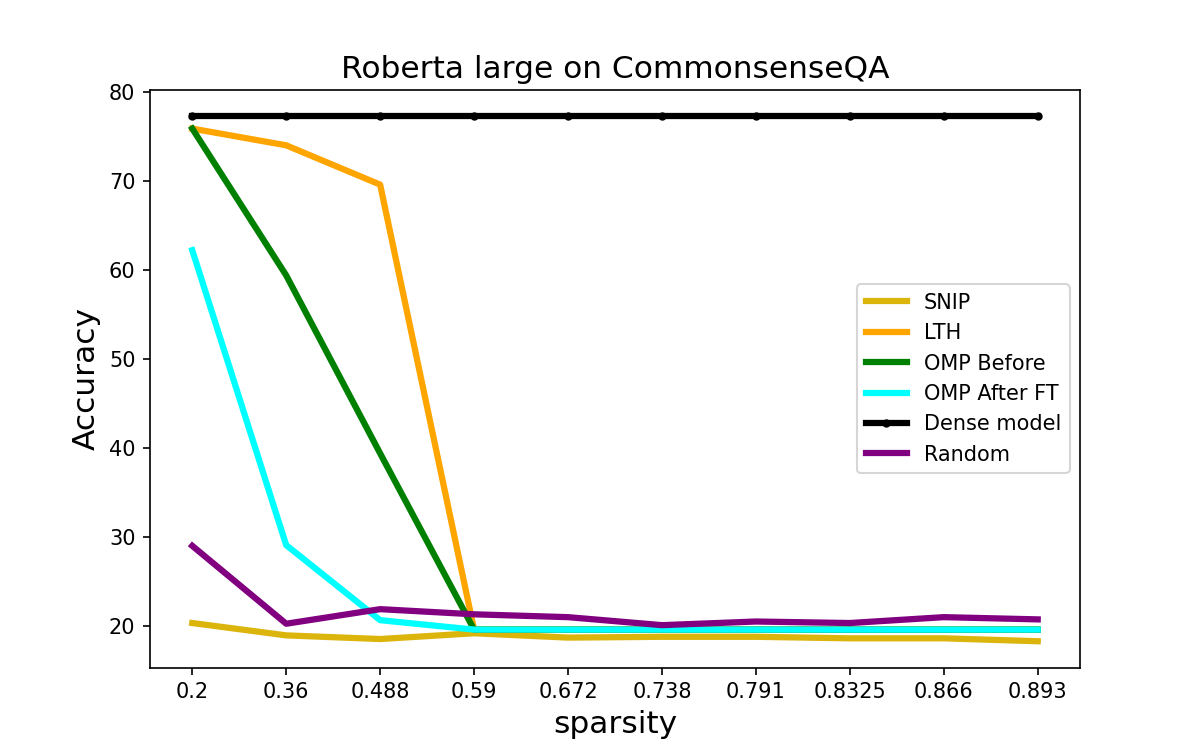
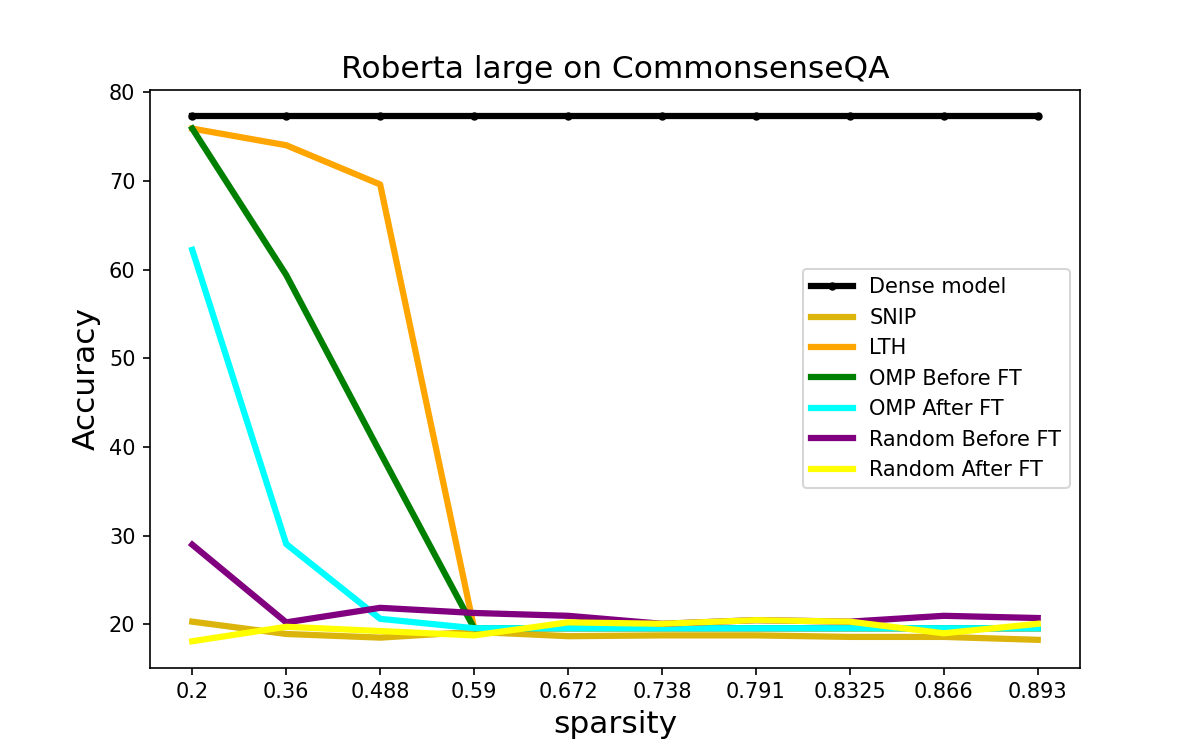
fix bug of pruning after FT

diff --git a/plot/Commonsense_qa.py b/plot/Commonsense_qa.py
@@ -13,19 +13,21 @@ x_lth = [0.2, 0.36, 0.488, 0.590, 0.672, 0.738, 0.791, 0.8325, 0.866, 0.893]
 robert_snip = [20.31, 18.92, 18.51, 19.16, 18.67, 18.76, 18.76, 18.59, 18.59, 18.26]
 robert_gm_before = [75.92, 59.41, 39.39, 19.57, 19.57, 19.57, 19.57, 19.57, 19.57, 19.57]
 robert_gm_after = [62.24, 29.07, 20.63, 19.57, 19.57, 19.57, 19.57, 19.57, 19.57, 19.57]
-robert_random = [28.99, 20.23, 21.87, 21.29, 20.97, 20.07, 20.48, 20.31, 20.97, 20.72]
+robert_random_before = [28.99, 20.23, 21.87, 21.29, 20.97, 20.07, 20.48, 20.31, 20.97, 20.72]
+robert_random_after  =  [18.10, 19.73, 19.25, 18.76, 20.23, 20.07, 20.48, 20.31, 19.00, 20.07]
 # 0.02 0.05 0.1 ... 0.9 0.95
 x_axis = range(10)
 
 
 # prune
 roberta_large = fig.add_subplot(1,1,1)
+roberta_large.plot(x_axis, dense*10,  '-o',   label='Dense model',color='black',linewidth=3, markersize=markersize, )
 roberta_large.plot(x_axis, robert_snip,  '-',   label='SNIP',color='#dbb40c',linewidth=3, markersize=markersize, )
 roberta_large.plot(x_axis, robert_lth,  '-',   label='LTH',color='orange',linewidth=3, markersize=markersize, )
-roberta_large.plot(x_axis, robert_gm_before,  '-',   label='OMP Before',color='green',linewidth=3, markersize=markersize, )
+roberta_large.plot(x_axis, robert_gm_before,  '-',   label='OMP Before FT',color='green',linewidth=3, markersize=markersize, )
 roberta_large.plot(x_axis, robert_gm_after,  '-',   label='OMP After FT',color='cyan',linewidth=3, markersize=markersize, )
-roberta_large.plot(x_axis, dense*10,  '-o',   label='Dense model',color='black',linewidth=3, markersize=markersize, )
-roberta_large.plot(x_axis, robert_random,  '-',   label='Random',color='purple',linewidth=3, markersize=markersize, )
+roberta_large.plot(x_axis, robert_random_before,  '-',   label='Random Before FT',color='purple',linewidth=3, markersize=markersize, )
+roberta_large.plot(x_axis, robert_random_after,  '-',   label='Random After FT',color='yellow',linewidth=3, markersize=markersize, )
 # vgg_all.plot(x_axis, [50]*11,  '-o',   label='random guess',color='gray',linewidth=3, markersize=markersize, )
 roberta_large.set_title('Roberta large on CommonsenseQA',fontsize=fontsize)
 roberta_large.set_xticks(range(10))

diff --git a/fairseq_cli/train_pruning.py b/fairseq_cli/train_pruning.py
@@ -385,7 +385,8 @@ def train(
 
         end_of_epoch = not itr.has_next()
 
-        if epoch_itr.epoch == cfg.optimization.max_epoch or trainer.get_num_updates() >= cfg.optimization.max_update:
+
+        if (epoch_itr.epoch == cfg.optimization.max_epoch and end_of_epoch) or trainer.get_num_updates() >= cfg.optimization.max_update:
             logger.info('performing pruning after finishing finetuning')
             if mask.sparse_init == 'snip':
                 layer_wise_sparsities = SNIP(trainer.model, trainer, 1 - mask.sparsity, progress, mask.masks)
